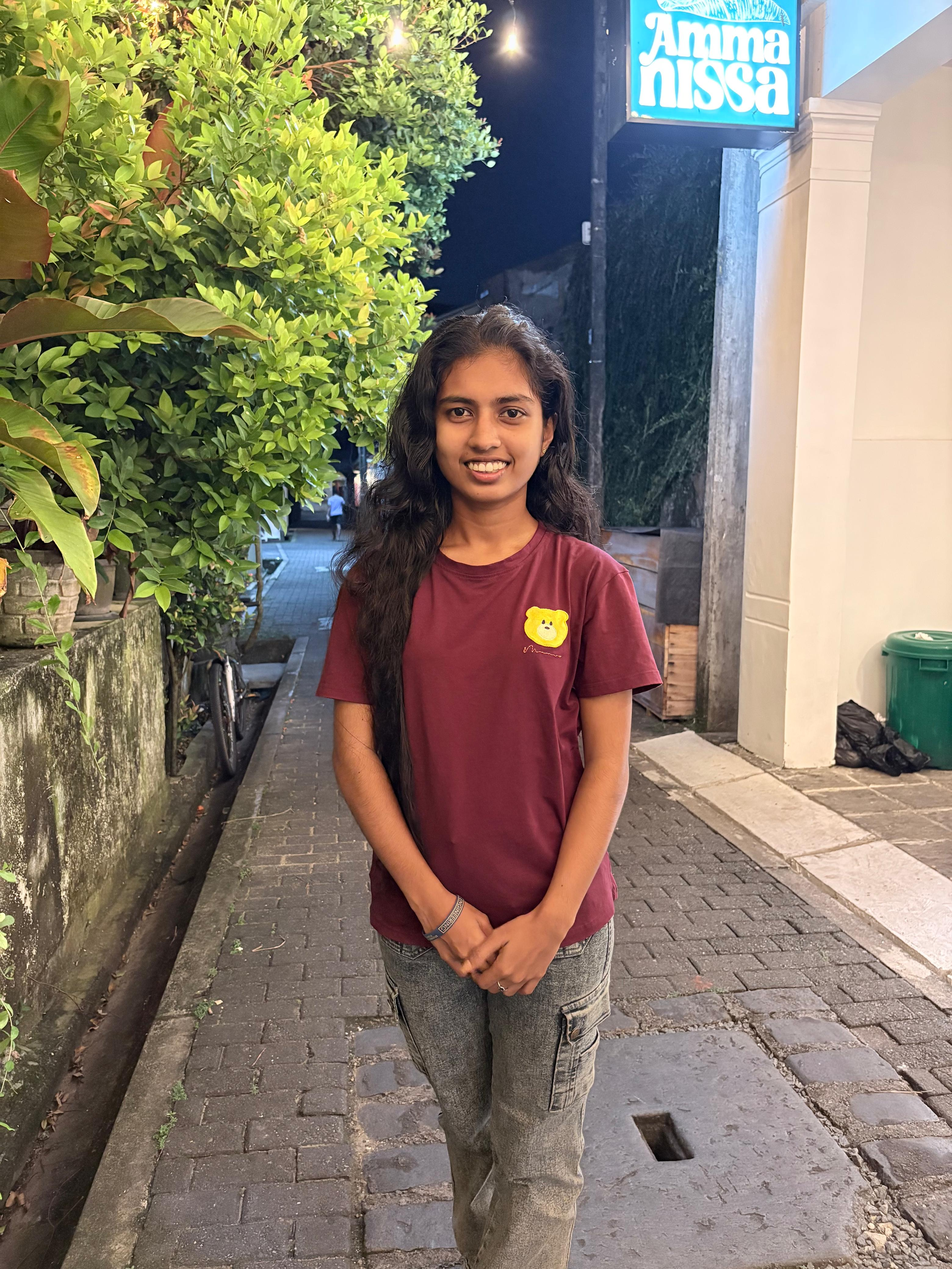
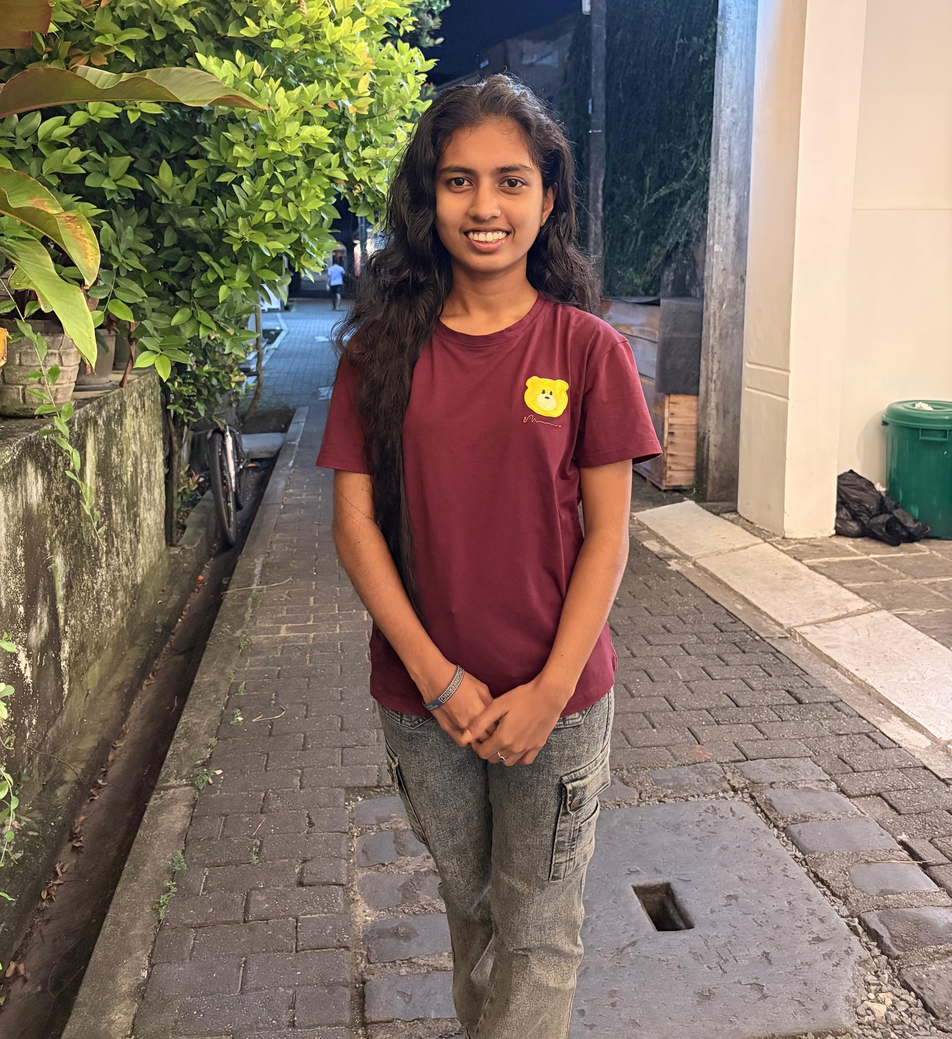
feat: added new projects

diff --git a/index.html b/index.html
@@ -47,6 +47,27 @@
           rgba(0, 0, 0, 0.85),
           transparent 92%);
       opacity: 0.35;
+      z-index: 1;
+    }
+
+    #sparkleCanvas,
+    #trailCanvas {
+      position: fixed;
+      inset: 0;
+      width: 100vw;
+      height: 100vh;
+      pointer-events: none;
+      z-index: 0;
+    }
+
+    #trailCanvas {
+      opacity: 0.85;
+      mix-blend-mode: screen;
+      filter: blur(24px);
+    }
+
+    #sparkleCanvas {
+      opacity: 0.85;
     }
 
     .brand-font {
@@ -411,6 +432,8 @@
 </head>
 
 <body>
+  <canvas id="sparkleCanvas" aria-hidden="true"></canvas>
+  <canvas id="trailCanvas" aria-hidden="true"></canvas>
   <nav class="fixed top-0 z-50 w-full border-b border-slate-800/70 glass-panel">
     <div class="mx-auto flex max-w-[1520px] items-center justify-between px-5 py-4 sm:px-8 lg:px-12">
       <a href="#home" class="brand-font text-lg font-bold tracking-[0.2em] text-slate-100 uppercase">
@@ -456,7 +479,7 @@
           <div class="mt-8 grid gap-4 sm:grid-cols-3">
             <div class="stat-card reveal">
               <div class="work-meta">Projects</div>
-              <div class="mt-2 text-3xl font-bold text-white" data-count="8">
+              <div class="mt-2 text-3xl font-bold text-white" data-count="10">
                 0
               </div>
               <p class="mt-2 text-sm text-slate-400">
@@ -1024,6 +1047,142 @@
       animateCounters();
       lucide.createIcons();
     })();
+
+    // Pure soft ambient light trail (smooth diffused glow, zero hard lines)
+    const trailCanvas = document.getElementById("trailCanvas");
+    if (trailCanvas && window.matchMedia("(pointer: fine)").matches) {
+      const tCtx = trailCanvas.getContext("2d");
+      let tWidth = (trailCanvas.width = window.innerWidth);
+      let tHeight = (trailCanvas.height = window.innerHeight);
+
+      window.addEventListener("resize", () => {
+        tWidth = trailCanvas.width = window.innerWidth;
+        tHeight = trailCanvas.height = window.innerHeight;
+      });
+
+      const lights = [];
+      let lastX = -100;
+      let lastY = -100;
+
+      window.addEventListener("mousemove", (e) => {
+        const mouseX = e.clientX;
+        const mouseY = e.clientY;
+
+        if (lastX !== -100) {
+          const dist = Math.hypot(mouseX - lastX, mouseY - lastY);
+          // Interpolate luminous clouds for ultra-smooth fluid flow
+          const steps = Math.min(8, Math.max(1, Math.floor(dist / 14)));
+          for (let i = 0; i < steps; i++) {
+            const t = i / steps;
+            lights.push({
+              x: lastX + (mouseX - lastX) * t,
+              y: lastY + (mouseY - lastY) * t,
+              radius: Math.min(75, Math.max(42, dist * 0.8 + 35)),
+              alpha: 1.0,
+              decay: 0.045,
+              color: i % 2 === 0 ? "56, 189, 248" : "14, 165, 233",
+            });
+          }
+        }
+
+        lastX = mouseX;
+        lastY = mouseY;
+      });
+
+      document.addEventListener("mouseleave", () => {
+        lastX = -100;
+        lastY = -100;
+      });
+
+      function renderLightTrail() {
+        tCtx.clearRect(0, 0, tWidth, tHeight);
+
+        for (let i = lights.length - 1; i >= 0; i--) {
+          const l = lights[i];
+          l.alpha -= l.decay;
+
+          if (l.alpha <= 0) {
+            lights.splice(i, 1);
+            continue;
+          }
+
+          // Soft diffused radiant aura (no borders, no hard strokes)
+          const grad = tCtx.createRadialGradient(l.x, l.y, 0, l.x, l.y, l.radius);
+          grad.addColorStop(0, `rgba(${l.color}, ${l.alpha * 0.28})`);
+          grad.addColorStop(0.45, `rgba(${l.color}, ${l.alpha * 0.12})`);
+          grad.addColorStop(1, "rgba(56, 189, 248, 0)");
+
+          tCtx.beginPath();
+          tCtx.arc(l.x, l.y, l.radius, 0, Math.PI * 2);
+          tCtx.fillStyle = grad;
+          tCtx.fill();
+        }
+
+        requestAnimationFrame(renderLightTrail);
+      }
+
+      renderLightTrail();
+    }
+
+    // Ambient dynamic sparkle particles background
+    const sparkleCanvas = document.getElementById("sparkleCanvas");
+    if (sparkleCanvas) {
+      const sCtx = sparkleCanvas.getContext("2d");
+      let sWidth = (sparkleCanvas.width = window.innerWidth);
+      let sHeight = (sparkleCanvas.height = window.innerHeight);
+
+      window.addEventListener("resize", () => {
+        sWidth = sparkleCanvas.width = window.innerWidth;
+        sHeight = sparkleCanvas.height = window.innerHeight;
+      });
+
+      const sparkleCount = Math.min(50, Math.floor((sWidth * sHeight) / 24000));
+      const sparkles = [];
+
+      for (let i = 0; i < sparkleCount; i++) {
+        sparkles.push({
+          x: Math.random() * sWidth,
+          y: Math.random() * sHeight,
+          size: Math.random() * 2 + 0.8,
+          baseAlpha: Math.random() * 0.4 + 0.2,
+          alpha: 0,
+          speed: Math.random() * 0.02 + 0.008,
+          phase: Math.random() * Math.PI * 2,
+          vx: (Math.random() - 0.5) * 0.25,
+          vy: (Math.random() - 0.5) * 0.25,
+          color: i % 3 === 0 ? "56, 189, 248" : i % 3 === 1 ? "168, 85, 247" : "224, 242, 254",
+        });
+      }
+
+      function renderSparkles() {
+        sCtx.clearRect(0, 0, sWidth, sHeight);
+
+        sparkles.forEach((s) => {
+          s.phase += s.speed;
+          s.alpha = s.baseAlpha + Math.sin(s.phase) * (s.baseAlpha * 0.7);
+
+          s.x += s.vx;
+          s.y += s.vy;
+
+          if (s.x < 0) s.x = sWidth;
+          if (s.x > sWidth) s.x = 0;
+          if (s.y < 0) s.y = sHeight;
+          if (s.y > sHeight) s.y = 0;
+
+          sCtx.beginPath();
+          sCtx.arc(s.x, s.y, s.size, 0, Math.PI * 2);
+          sCtx.fillStyle = `rgba(${s.color}, ${Math.max(0, s.alpha)})`;
+          sCtx.shadowBlur = 6;
+          sCtx.shadowColor = `rgba(${s.color}, 0.8)`;
+          sCtx.fill();
+          sCtx.shadowBlur = 0;
+        });
+
+        requestAnimationFrame(renderSparkles);
+      }
+
+      renderSparkles();
+    }
   </script>
 </body>
 
